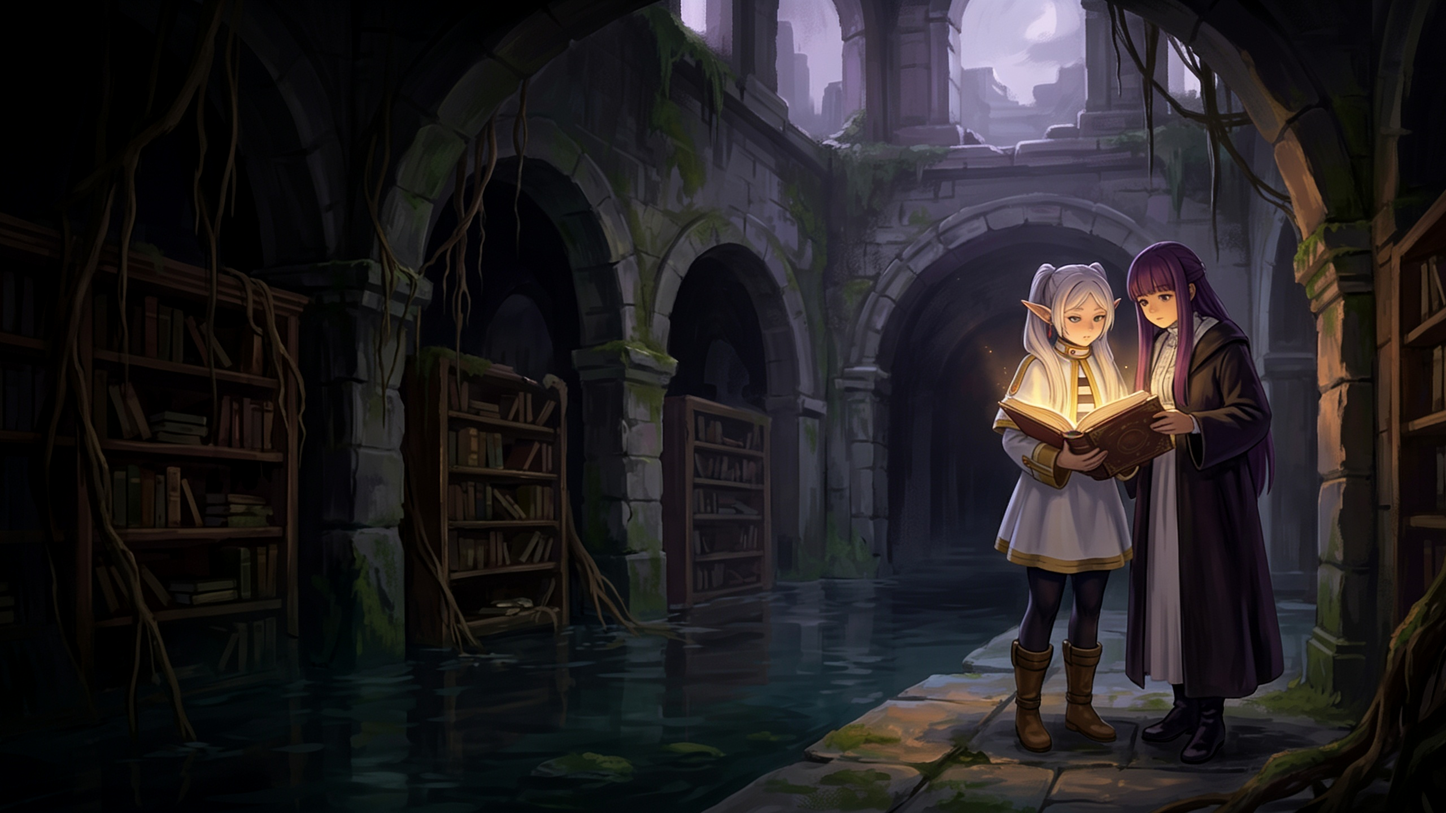
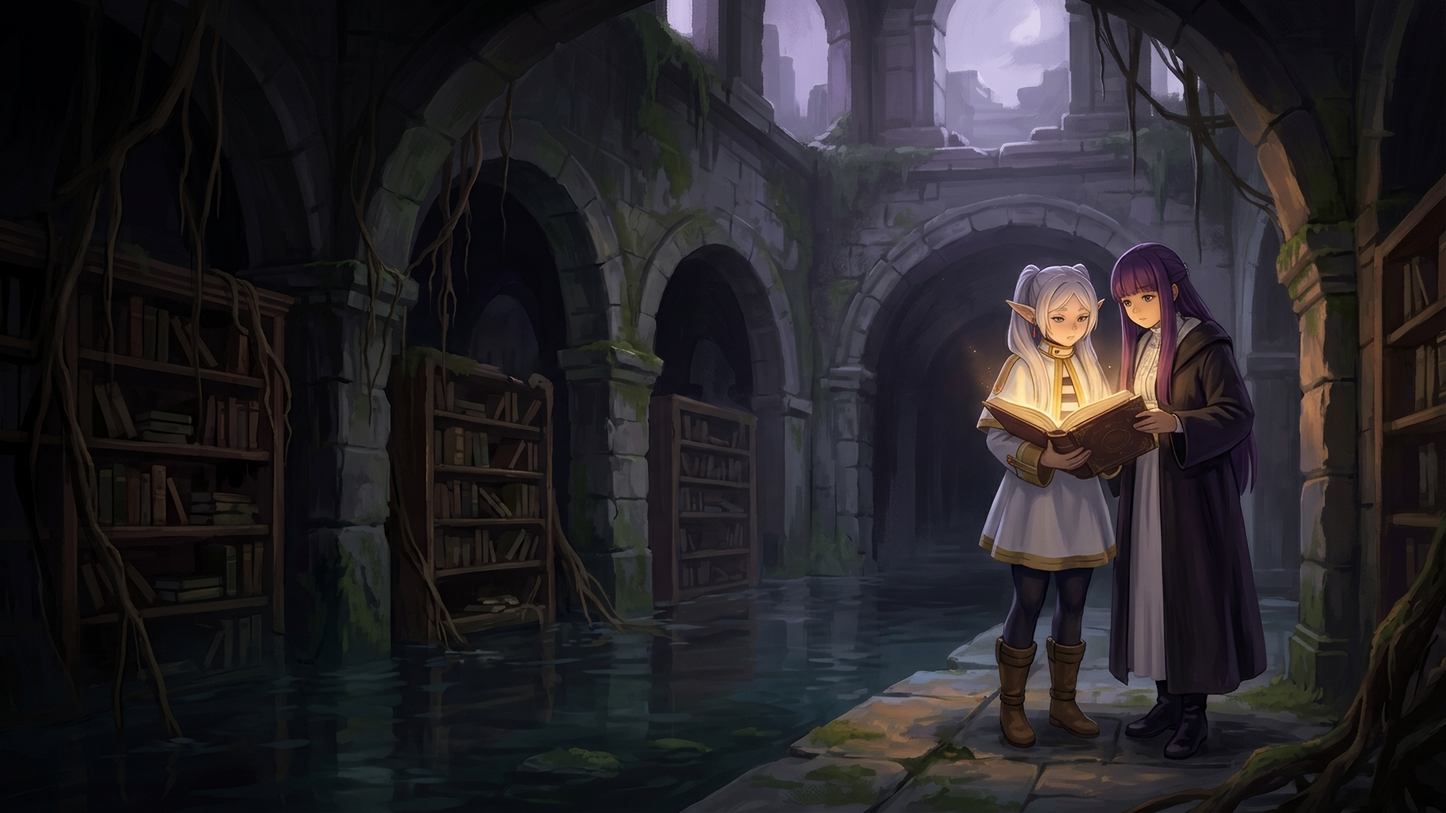
add png app

diff --git a/tools/wallpapers/upscale/nomos8kdat.py b/tools/wallpapers/upscale/nomos8kdat.py
@@ -51,6 +51,18 @@ def tensor_to_image(tensor: torch.Tensor) -> Image.Image:
     return Image.fromarray(np.rint(array * 255.0).astype(np.uint8), "RGB")
 
 
+def resize_crop_left(image: Image.Image, target_width: int, target_height: int) -> Image.Image:
+    """Resize without distortion, discarding only excess pixels on the left."""
+    resized_width = math.ceil(image.width * target_height / image.height)
+    if resized_width < target_width:
+        raise ValueError(
+            f"{image.width}x{image.height} jest węższy niż docelowe "
+            f"{target_width}x{target_height}; nie można przyciąć tylko lewej strony"
+        )
+    resized = image.resize((resized_width, target_height), Image.Resampling.LANCZOS)
+    return resized.crop((resized_width - target_width, 0, resized_width, target_height))
+
+
 def upscale_tiled(
     image: Image.Image,
     model: ImageModelDescriptor,
@@ -60,6 +72,7 @@ def upscale_tiled(
     overlap: int,
     pad_multiple: int,
     scale: int,
+    warmup: bool,
 ) -> Image.Image:
     original_width, original_height = image.size
     padded_width = math.ceil(original_width / tile) * tile
@@ -98,6 +111,27 @@ def upscale_tiled(
     else:
         context_image = working_image
     result = Image.new("RGB", (width * scale, height * scale))
+
+    if warmup:
+        # ROCm 7.2 can return a visually corrupted but finite first DAT result
+        # while its kernels initialize.  Execute the exact first patch once,
+        # discard it, then start the real tiled render from a warm model.
+        warmup_patch = context_image.crop((0, 0, tile + 2 * overlap, tile + 2 * overlap))
+        warmup_tensor = image_to_tensor(warmup_patch, device, dtype)
+        warmup_pad_right = (-warmup_tensor.shape[-1]) % pad_multiple
+        warmup_pad_bottom = (-warmup_tensor.shape[-2]) % pad_multiple
+        if warmup_pad_right or warmup_pad_bottom:
+            warmup_tensor = functional.pad(
+                warmup_tensor,
+                (0, warmup_pad_right, 0, warmup_pad_bottom),
+                mode="reflect",
+            )
+        print(f"  WARMUP patch={warmup_patch.width}x{warmup_patch.height}; wynik odrzucony", flush=True)
+        with torch.inference_mode():
+            warmup_output = model(warmup_tensor)
+        del warmup_tensor, warmup_output
+        torch.cuda.empty_cache()
+
     tiles_x = math.ceil(width / tile)
     tiles_y = math.ceil(height / tile)
     tile_count = tiles_x * tiles_y
@@ -199,11 +233,19 @@ def enhance_one(
     blend: float,
     sharpen: int,
     black_preserve_threshold: int,
+    warmup: bool,
+    target_width: int | None,
+    target_height: int | None,
 ) -> None:
     with Image.open(input_path) as source_image:
         source = source_image.convert("RGB")
+    if target_width is None:
+        output_source = source
+    else:
+        assert target_height is not None
+        output_source = resize_crop_left(source, target_width, target_height)
     source_black = np.all(
-        np.asarray(source, dtype=np.uint8) <= black_preserve_threshold,
+        np.asarray(output_source, dtype=np.uint8) <= black_preserve_threshold,
         axis=2,
     )
 
@@ -220,7 +262,7 @@ def enhance_one(
     print(
         f"  model input={model_source.width}x{model_source.height} "
         f"4x output={model_source.width * scale}x{model_source.height * scale} "
-        f"target={source.width}x{source.height}",
+        f"target={output_source.width}x{output_source.height}",
         flush=True,
     )
     four_x = upscale_tiled(
@@ -232,13 +274,18 @@ def enhance_one(
         overlap,
         pad_multiple,
         scale,
+        warmup,
     )
-    enhanced = four_x.resize(source.size, Image.Resampling.LANCZOS)
+    if target_width is None:
+        enhanced = four_x.resize(output_source.size, Image.Resampling.LANCZOS)
+    else:
+        assert target_height is not None
+        enhanced = resize_crop_left(four_x, target_width, target_height)
     del four_x
 
     # Keeping part of the original limits hallucinated facial details while
     # retaining the extra high-frequency information recovered by the model.
-    final = Image.blend(source, enhanced, blend)
+    final = Image.blend(output_source, enhanced, blend)
     if sharpen > 0:
         final = final.filter(ImageFilter.UnsharpMask(radius=0.6, percent=sharpen, threshold=3))
     if source_black.any():
@@ -270,6 +317,8 @@ def parse_args() -> argparse.Namespace:
         type=Path,
         help="Required together with --input-file; destination stays under staging",
     )
+    parser.add_argument("--target-width", type=int, help="Optional final output width")
+    parser.add_argument("--target-height", type=int, help="Optional final output height")
     parser.add_argument(
         "--slug",
         action="append",
@@ -295,6 +344,7 @@ def main() -> int:
     requested_dtype = os.environ.get("NOMOS_DTYPE", "bfloat16").lower()
     overwrite = os.environ.get("NOMOS_OVERWRITE", "0") == "1"
     auto_tile = os.environ.get("NOMOS_AUTO_TILE", "1") not in {"0", "no", "false", "off"}
+    warmup = os.environ.get("NOMOS_WARMUP", "1") not in {"0", "no", "false", "off"}
 
     if tile < 64 or overlap < 0 or overlap * 2 >= tile:
         raise ValueError("NOMOS_TILE >= 64 oraz 0 <= NOMOS_OVERLAP < NOMOS_TILE/2")
@@ -308,6 +358,12 @@ def main() -> int:
         raise ValueError("NOMOS_MIN_FREE_VRAM_GIB nie może być ujemne")
     if (args.input_file is None) != (args.output_file is None):
         raise ValueError("--input-file i --output-file muszą wystąpić razem")
+    if (args.target_width is None) != (args.target_height is None):
+        raise ValueError("--target-width i --target-height muszą wystąpić razem")
+    if args.target_width is not None and (args.target_width < 1 or args.target_height < 1):
+        raise ValueError("Docelowy wymiar musi być dodatni")
+    if args.target_width is not None and args.input_file is None:
+        raise ValueError("Docelowy wymiar jest dostępny tylko z --input-file")
     if not torch.cuda.is_available() or torch.version.hip is None:
         raise RuntimeError("ROCm GPU jest niedostępne")
     detected_vram_gib = torch.cuda.get_device_properties(0).total_memory / (1024**3)
@@ -379,6 +435,9 @@ def main() -> int:
             blend,
             sharpen,
             black_preserve_threshold,
+            warmup,
+            args.target_width,
+            args.target_height,
         )
         return 0
 
@@ -442,6 +501,9 @@ def main() -> int:
                         blend,
                         sharpen,
                         black_preserve_threshold,
+                        warmup,
+                        None,
+                        None,
                     )
                     if candidate_tile != tile:
                         print(f"  ukończono z fallback tile={candidate_tile}", flush=True)

diff --git a/tools/wallpapers/README.md b/tools/wallpapers/README.md
@@ -139,11 +139,20 @@ dostaje identyczny kontekst 32 px. Nomos nie dostaje wtedy wąskiego ani
 pozbawionego kontekstu kafla brzegowego podatnego na artefakty, a gotowy obraz
 jest przycinany dokładnie do pierwotnego wymiaru.
 
+ROCm może zwrócić wizualnie uszkodzony, lecz liczbowo skończony pierwszy wynik
+Nomos po zimnym starcie. Domyślne `NOMOS_WARMUP=1` wykonuje i odrzuca dokładnie
+taki pierwszy kafel przed właściwym renderem; nie miesza ani nie zachowuje
+oryginału. Ustaw `NOMOS_WARMUP=0` tylko do diagnostyki.
+
 Tryb `file /pełna/ścieżka.png` działa także dla 16:9 i innych proporcji. Zachowuje
-rozdzielczość wejścia, a wynik zapisuje wyłącznie do
+docelowe `2560×1440`: bez rozciągania skaluje do wysokości 1440 i odcina nadmiar
+wyłącznie z lewej strony, więc kompozycja po prawej zostaje nienaruszona. Wynik
+zapisuje wyłącznie do
 `work/import-48/upscaled-32x9-nomos8kdat-bf16-file/external/`, z hashem źródła
 w nazwie. Nie wymaga wpisu w `collection.json` i montuje katalog wejściowy do
-kontenera tylko do odczytu.
+kontenera tylko do odczytu. `NOMOS_FILE_TARGET_WIDTH` i
+`NOMOS_FILE_TARGET_HEIGHT` pozwalają jawnie zmienić docelowy format; źródło
+węższe niż wybrana proporcja zostanie odrzucone zamiast rozciągnięte.
 
 Domyślnie `NOMOS_BLACK_PRESERVE_THRESHOLD=0`: piksele, które w źródle są
 dokładnie `#000000`, są po rekonstrukcji, blendzie i wyostrzeniu ponownie
